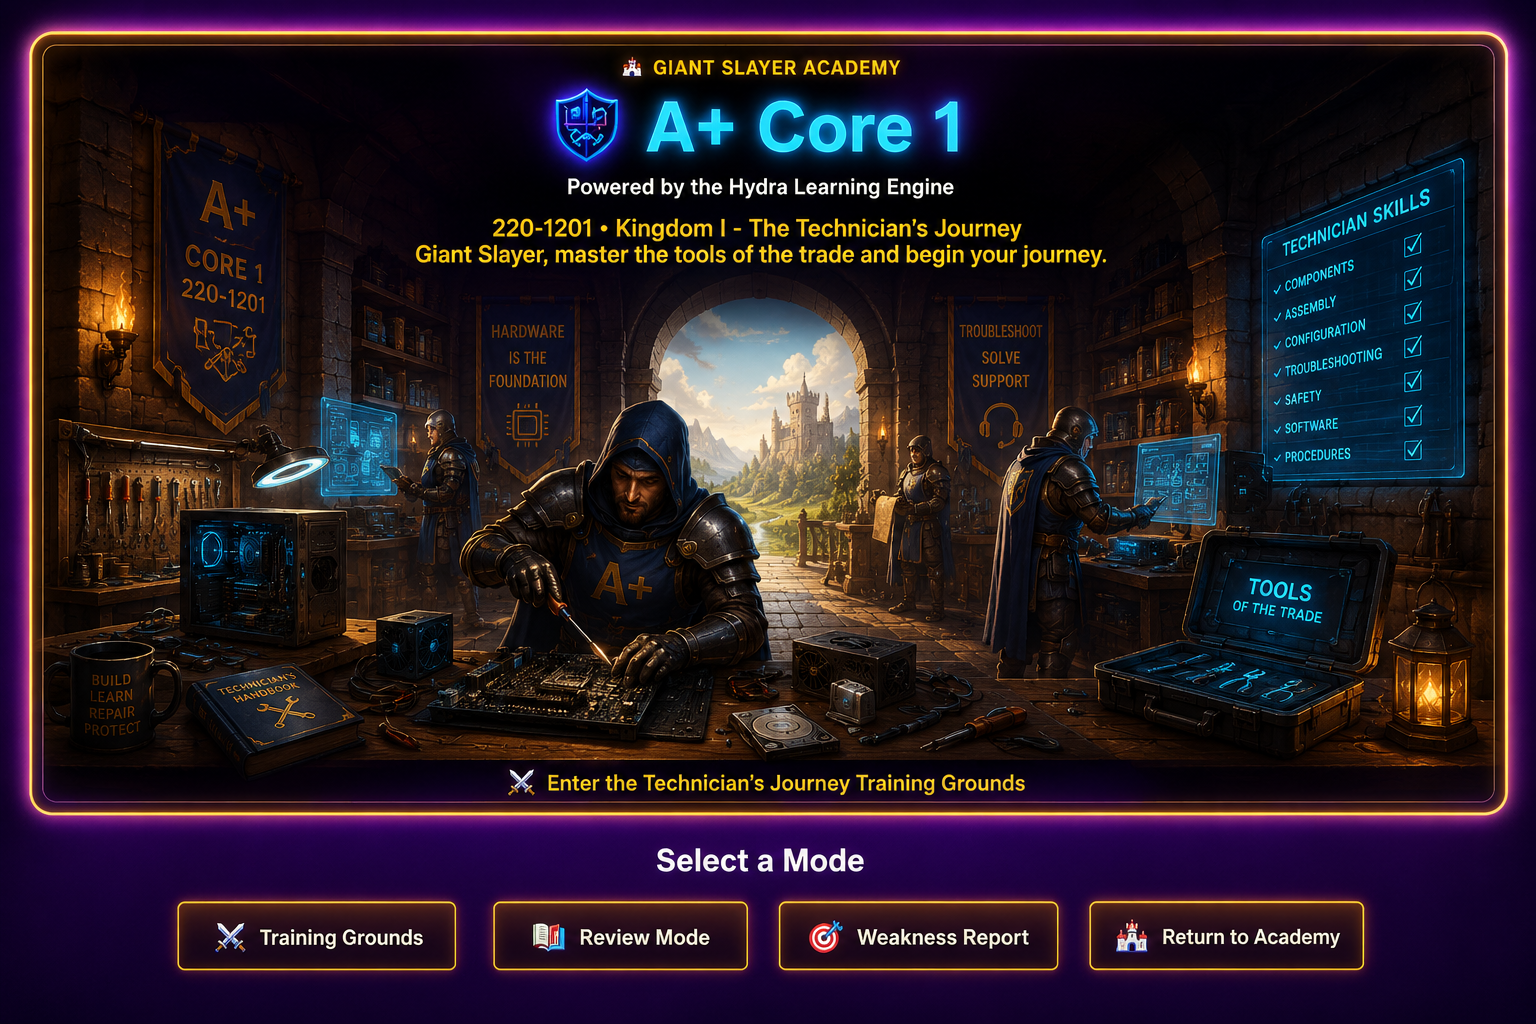
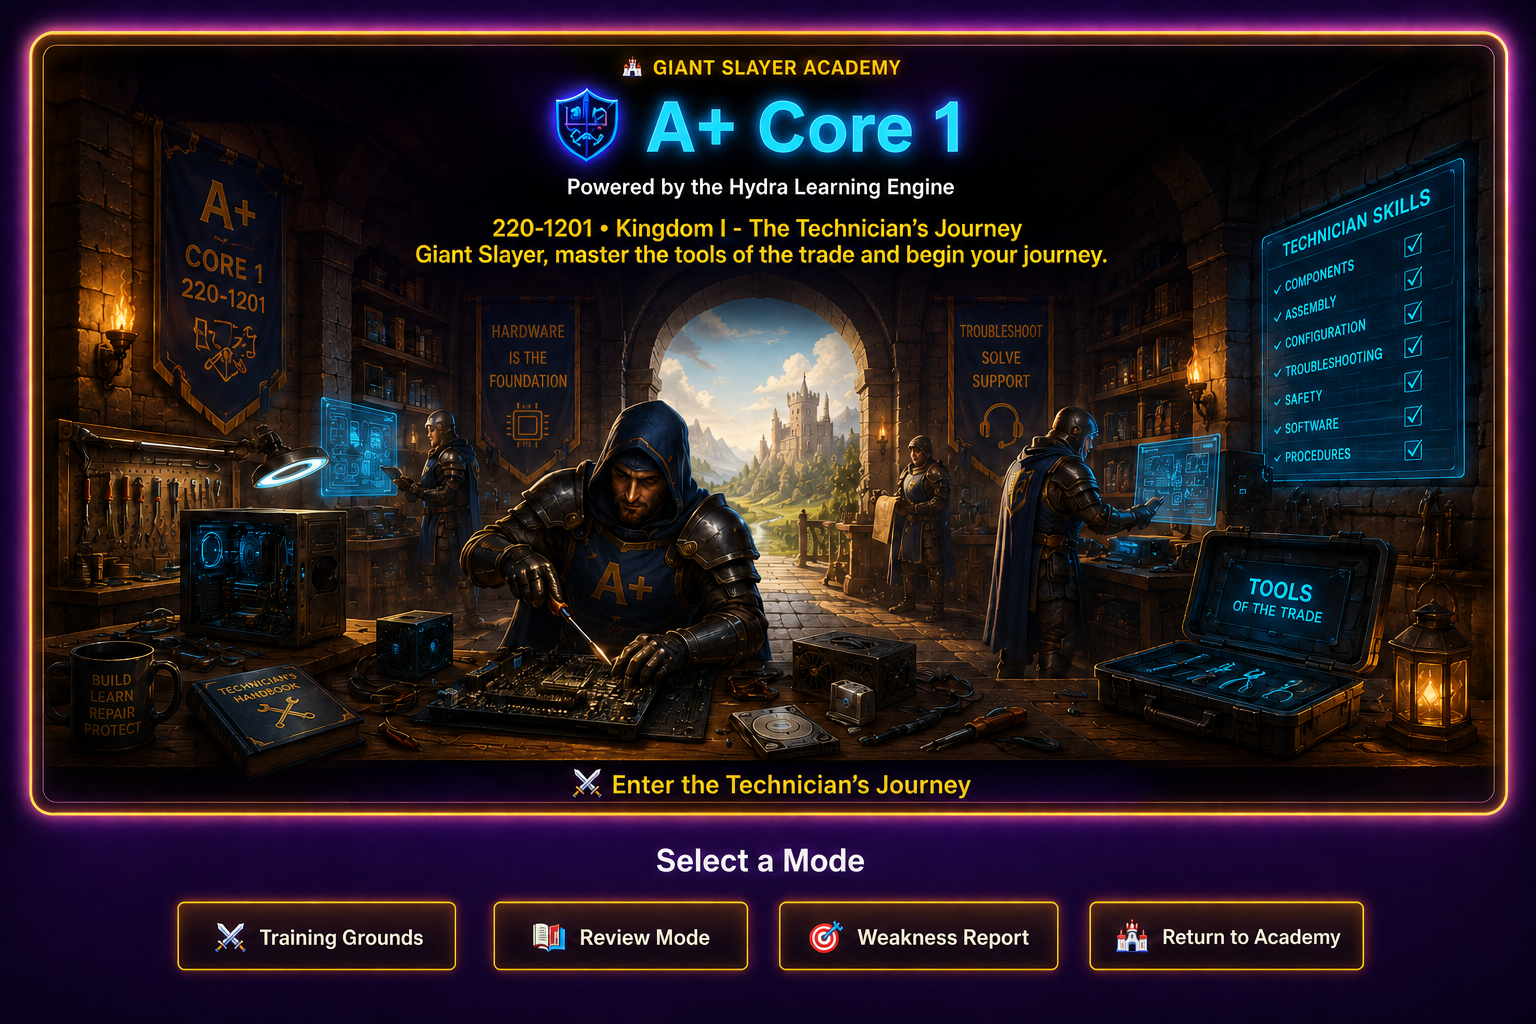
UI: Refine certification Training Grounds entry pages

diff --git a/cloud-plus.html b/cloud-plus.html
@@ -1,7 +1,7 @@
 <!DOCTYPE html>
 <html lang="en"><head><meta charset="UTF-8"><meta name="viewport" content="width=device-width, initial-scale=1.0"><title>Giant Slayer Academy | Cloud+</title><link rel="stylesheet" href="style.css?v=cloud-plus-training-hero-1"><link rel="icon" type="image/png" href="hydra.png"></head>
 <body class="arcade-body certification-cabinet" data-certification="cloud-plus"><div class="crt-overlay"></div><main class="certification-cabinet-shell">
-<section class="cloud-plus-training-hero" aria-labelledby="cloudPlusTrainingTitle"><h1 id="cloudPlusTrainingTitle" class="visually-hidden">Cloud+ · The Cloud Citadel Training Grounds</h1><img src="assets/cloud-plus-training-grounds.jpg?v=commander-1" alt="A male cloud commander operating the Giant Slayer Academy Cloud Citadel"></section>
+<section class="cloud-plus-training-hero" aria-labelledby="cloudPlusTrainingTitle"><h1 id="cloudPlusTrainingTitle" class="visually-hidden">Cloud+ · Enter the Cloud Citadel</h1><img src="assets/cloud-plus-training-grounds.jpg?v=commander-1" alt="A male cloud commander operating the Giant Slayer Academy Cloud Citadel"></section>
 <h2>Select a Mode</h2>
 <div class="game-links"><a href="cloud-plus-campaign.html" class="link-btn">⚔ Training Grounds</a><a href="review-hub.html?cert=cloud-plus" class="link-btn">📚 Review Mode</a><a href="review-hub.html?cert=cloud-plus&amp;view=weak" class="link-btn">🎯 Weakness Report</a><a href="index.html" class="link-btn">🏰 Return to Academy 🏰</a></div>
 </main></body></html>

diff --git a/linux-essentials.html b/linux-essentials.html
@@ -10,7 +10,7 @@
 <body class="arcade-body certification-cabinet" data-certification="linux-essentials">
   <main class="certification-cabinet-shell">
   <section class="linux-training-hero" aria-labelledby="linuxTrainingTitle">
-    <h1 id="linuxTrainingTitle" class="visually-hidden">Linux Essentials · The Linux Citadel Training Grounds</h1>
+    <h1 id="linuxTrainingTitle" class="visually-hidden">Linux Essentials · Enter the Linux Citadel</h1>
     <img src="assets/linux-essentials-training-grounds.png?v=balanced-team-1" alt="A team of Linux penguin technicians, including two female instructors, operating the Giant Slayer Academy Linux Citadel">
   </section>
   <h2>Select a Mode</h2>

diff --git a/aplus-core2.html b/aplus-core2.html
@@ -10,7 +10,7 @@
   <body class="arcade-body certification-cabinet" data-certification="aplus-core2">
   <main class="certification-cabinet-shell">
   <section class="aplus-training-hero" aria-labelledby="aplusCore2TrainingTitle">
-    <h1 id="aplusCore2TrainingTitle" class="visually-hidden">A+ Core 2 · The Technician's Trials Training Grounds</h1>
+    <h1 id="aplusCore2TrainingTitle" class="visually-hidden">A+ Core 2 · Enter the Technician’s Trials</h1>
     <img src="assets/aplus-core2-training-grounds.png?v=approved-design-2" alt="Technicians diagnosing, securing, and restoring computer systems inside the Giant Slayer Academy workshop">
   </section>
   <h2>Select a Mode</h2>

diff --git a/aws-cloud-practitioner.html b/aws-cloud-practitioner.html
@@ -10,7 +10,7 @@
 <body class="arcade-body certification-cabinet" data-certification="aws-cloud-practitioner">
   <main class="certification-cabinet-shell">
   <section class="aws-training-hero" aria-labelledby="awsTrainingTitle">
-    <h1 id="awsTrainingTitle" class="visually-hidden">AWS Cloud Practitioner · The Cloud Kingdom Training Grounds</h1>
+    <h1 id="awsTrainingTitle" class="visually-hidden">AWS Cloud Practitioner · Enter the Cloud Kingdom</h1>
     <img src="assets/aws-cloud-practitioner-training-grounds.png?v=female-architect-1" alt="A female cloud architect commanding the Giant Slayer Academy AWS Cloud Kingdom">
   </section>
   <h2>Select a Mode</h2>

diff --git a/network-plus.html b/network-plus.html
@@ -11,7 +11,7 @@
    <body class="arcade-body certification-cabinet" data-certification="network-plus">
     <main class="certification-cabinet-shell">
     <section class="network-training-hero" aria-labelledby="networkTrainingTitle">
-        <h1 id="networkTrainingTitle" class="visually-hidden">Network+ · The Network Realm Training Grounds</h1>
+        <h1 id="networkTrainingTitle" class="visually-hidden">Network+ · Enter the Network Realm</h1>
         <img src="assets/network-plus-training-grounds.png?v=approved-design-1" alt="A Latino network technician configuring switches and monitoring the Giant Slayer Academy network realm">
     </section>
 

diff --git a/aplus-core1.html b/aplus-core1.html
@@ -10,7 +10,7 @@
   <body class="arcade-body certification-cabinet" data-certification="aplus-core1">
   <main class="certification-cabinet-shell">
   <section class="aplus-training-hero" aria-labelledby="aplusCore1TrainingTitle">
-    <h1 id="aplusCore1TrainingTitle" class="visually-hidden">A+ Core 1 · The Technician's Journey Training Grounds</h1>
+    <h1 id="aplusCore1TrainingTitle" class="visually-hidden">A+ Core 1 · Enter the Technician’s Journey</h1>
     <img src="assets/aplus-core1-training-grounds.png" alt="A technician training with computer hardware inside the Giant Slayer Academy workshop">
   </section>
   <h2>Select a Mode</h2>

diff --git a/security-plus.html b/security-plus.html
@@ -17,7 +17,7 @@
       <p class="engine-credit">Powered by the Hydra Learning Engine</p>
       <p>SY0-701 • Kingdom IV - The Cyber Fortress<br>Giant Slayer, stand united and defend the kingdom against the giants.</p>
     </header>
-    <p class="security-training-callout">⚔ Enter the Cyber Fortress Training Grounds</p>
+    <p class="security-training-callout">⚔ Enter the Cyber Fortress</p>
   </section>
   <h2>Select a Mode</h2>
   <div class="game-links">
